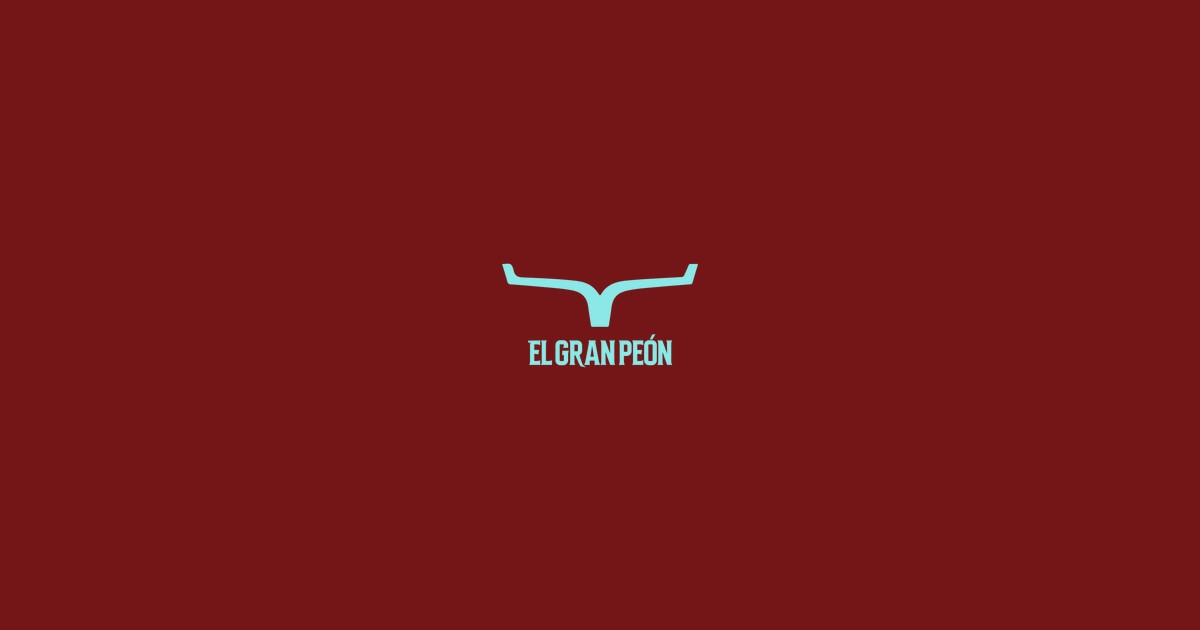
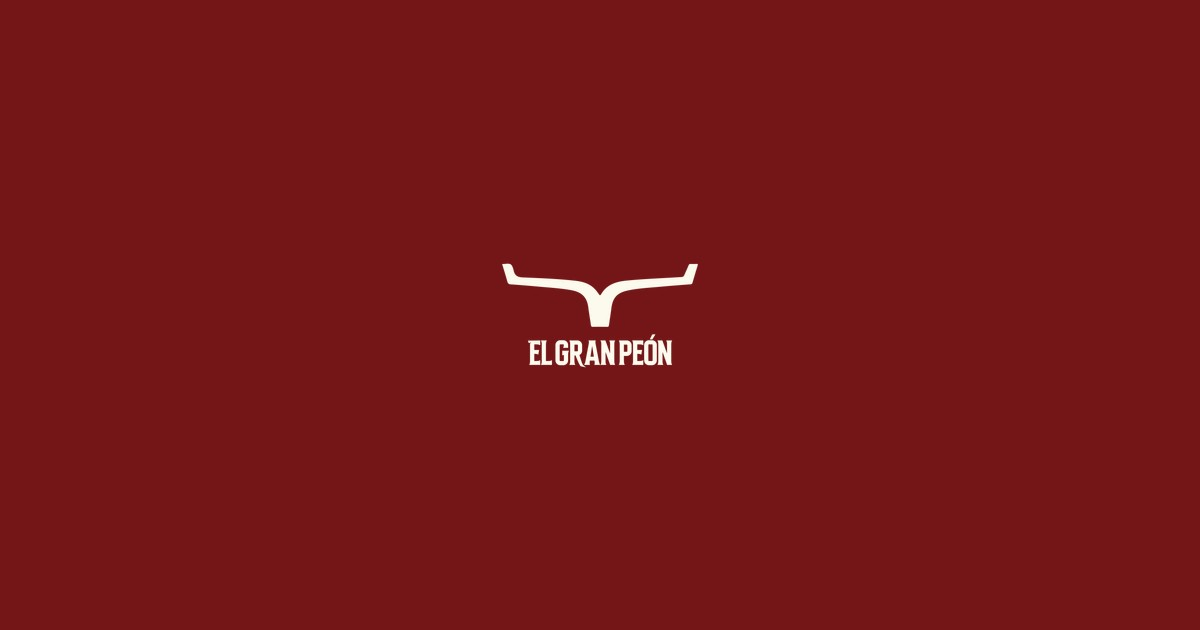
replace og image

Changed region(s): [[0.4008, 0.4222, 0.5858, 0.6032]]

diff --git a/client/scripts/generate-og-image.js b/client/scripts/generate-og-image.js
@@ -4,6 +4,7 @@ async function generateOgImage() {
   const width = 1200;
   const height = 630;
   const burgundy = { r: 116, g: 22, b: 23, alpha: 1 }; // #741617
+  const cream = { r: 254, g: 252, b: 240, alpha: 1 }; // #FEFCF0
 
   // Create burgundy background
   const background = sharp({
@@ -15,18 +16,34 @@ async function generateOgImage() {
     }
   });
 
-  // Resize logo to fit nicely (around 350px wide)
-  // Using negate to invert the burgundy logo to cream
-  const logo = await sharp('./public/images/logo.png')
-    .negate({ alpha: false })
-    .resize(350, null, { fit: 'inside' })
+  // Resize logo and extract its alpha channel
+  const resizedLogo = sharp('./public/images/logo.png')
+    .resize(350, null, { fit: 'inside' });
+
+  const resizedLogoBuffer = await resizedLogo.toBuffer();
+  const resizedMeta = await sharp(resizedLogoBuffer).metadata();
+
+  // Extract alpha channel from logo to use as mask
+  const alphaChannel = await sharp(resizedLogoBuffer)
+    .extractChannel(3)
     .toBuffer();
 
-  const logoMetadata = await sharp(logo).metadata();
+  // Create cream-colored logo using the alpha as mask
+  const logo = await sharp({
+    create: {
+      width: resizedMeta.width,
+      height: resizedMeta.height,
+      channels: 3,
+      background: { r: cream.r, g: cream.g, b: cream.b },
+    }
+  })
+    .joinChannel(alphaChannel)
+    .png()
+    .toBuffer();
 
   // Center the logo
-  const left = Math.round((width - logoMetadata.width) / 2);
-  const top = Math.round((height - logoMetadata.height) / 2);
+  const left = Math.round((width - resizedMeta.width) / 2);
+  const top = Math.round((height - resizedMeta.height) / 2);
 
   // Composite logo onto background
   await background
